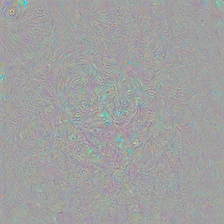
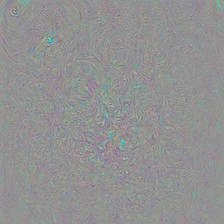
Things working :on brink of collapse

diff --git a/ATTACK.py b/ATTACK.py
@@ -1,6 +1,7 @@
 import torch
 import torch.nn.functional as F
 import torchvision.transforms as transforms
+import os
 
 device = torch.device("cuda:2" if torch.cuda.is_available() else "cpu")
 torch.cuda.set_device(device)
@@ -10,7 +11,7 @@ class AdversarialAttack:
         if(mini_batch_size%2!=0):
             raise ValueError("mini_batch_size should be even")
         
-        
+
 
 
         self.model = model
@@ -155,6 +156,17 @@ def toImage(tensor):
     # Display the image
     return image
 
+def saveImages(images_folder,samples,n=100):
+    # Saving perturbed images
+
+    if(not os.path.exists(images_folder)):
+        os.makedirs(images_folder)
+
+    for i in range(n):
+        image = toImage(samples[i])
+        image.save(os.path.join(images_folder,f"class1_{i}.png"))
+
+
 
 if(__name__=="__main__"):
     from PretrainedModels.imagenet import ModelOptions, get_pre_trained_model
@@ -194,9 +206,21 @@ if(__name__=="__main__"):
 
     perturbed_source_samples = source_samples - perturbation
 
+
+
+
+    # Saving perturbed images
+    saveImages("perturbed_images",perturbed_source_samples,n)
+    #also saving actual images
+    saveImages("actual_images",source_samples,n)
+
+
     # save perturbation
     image = toImage(perturbation)
     image.save("perturbation.png")
+
+    #save perturbation as tensor
+    torch.save(perturbation,"perturbation.pt")
 
 
 

diff --git a/UTILS.py b/UTILS.py
@@ -1,0 +1,36 @@
+import torch
+from PIL import Image
+import os
+
+def loadPertubation(pertPath):
+    perturbation = torch.load(pertPath)
+    return perturbation
+
+def applyPertubation(image, pertubation):
+    return image - pertubation
+
+def toImage(tensor):
+    numpy_array = tensor.cpu().numpy()
+
+    # Rescale values to the range [0, 255]
+    min_val = numpy_array.min()
+    max_val = numpy_array.max()
+    numpy_array = (255.0 * (numpy_array - min_val) / (max_val - min_val)).astype('uint8')
+
+    # Convert NumPy array to PIL image
+    image = Image.fromarray(numpy_array.transpose(1, 2, 0))  # Assuming tensor shape is (3, height, width)
+    # convert to rgb
+    image = image.convert("RGB")
+
+    # Display the image
+    return image
+
+def saveImages(images_folder,samples,n=100):
+    # Saving perturbed images
+
+    if(not os.path.exists(images_folder)):
+        os.makedirs(images_folder)
+
+    for i in range(n):
+        image = toImage(samples[i])
+        image.save(os.path.join(images_folder,f"class1_{i}.png"))

diff --git a/PretrainedModels/imagenet.py b/PretrainedModels/imagenet.py
@@ -12,7 +12,7 @@ class ModelOptions(Enum):
     RESNET18 = models.resnet18
     RESNET34 = models.resnet34
     RESNET50 = models.resnet50
-    GOOGLENET = models.googlenet
+    # GOOGLENET = models.googlenet
 
 class ModelWrapper(torch.nn.Module):
     def __init__(self, model: torch.nn.Module)->None:
@@ -31,7 +31,8 @@ def get_pre_trained_model(model_option: ModelOptions)->Tuple[torch.nn.Module, tr
     model = ModelWrapper(model)
     model.eval()
 
-    transform=transforms.Compose([  transforms.Resize((256,256), interpolation=transforms.InterpolationMode.BILINEAR),
+    transform=transforms.Compose([  
+        transforms.Resize((256,256), interpolation=transforms.InterpolationMode.BILINEAR),
                                     transforms.CenterCrop(224),
                                     transforms.ToTensor()])
 
